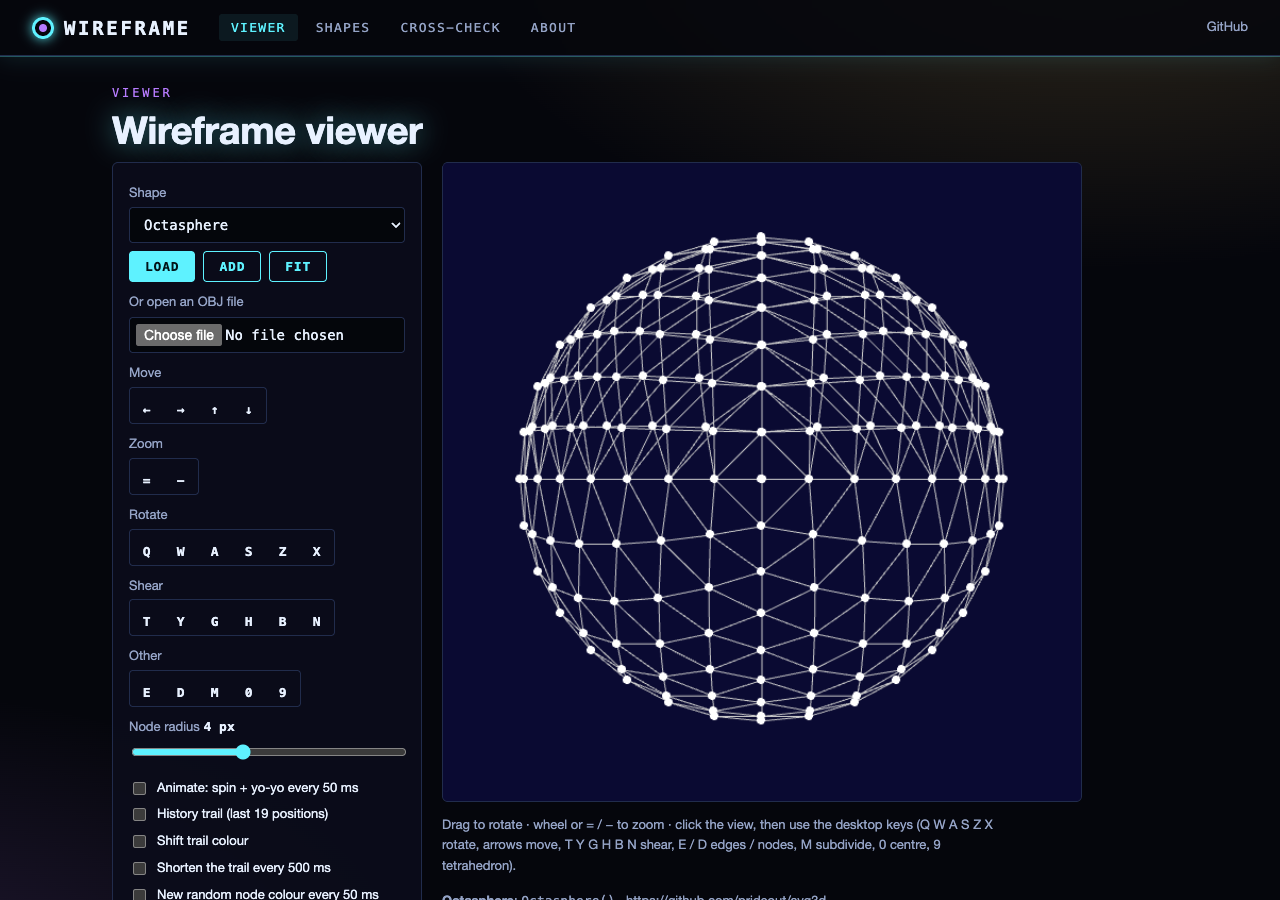
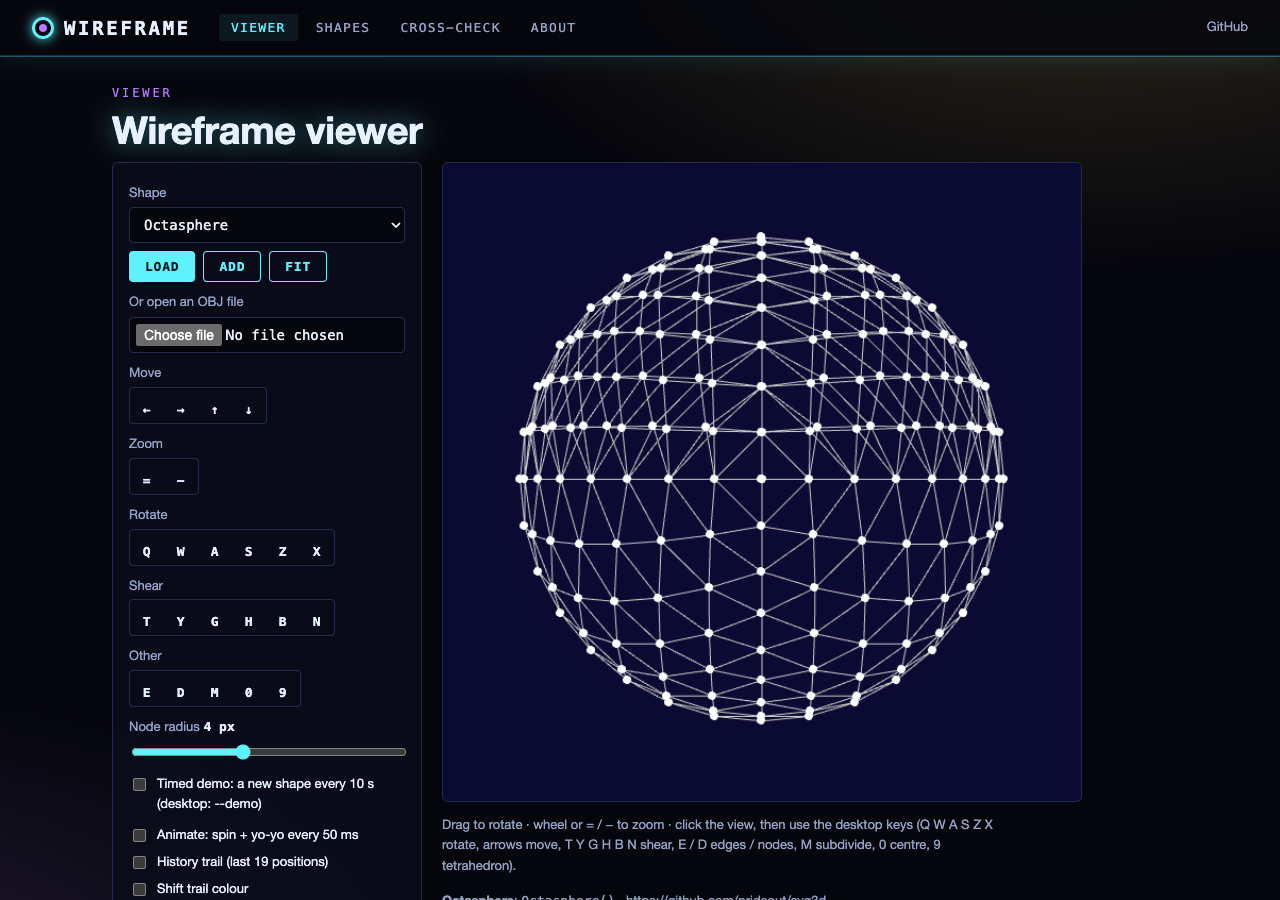
Update session log, interface map and viewer screenshot after follow-up fixes

Changed region(s): [[0.0938, 0.8711, 0.3125, 1.0]]

diff --git a/SESSION_LOG.md b/SESSION_LOG.md
@@ -35,3 +35,20 @@ Needs George's decision (not changed):
   overlapping for pentagons and larger. Left as is (the web port does the same).
 - Credit: much of the structure (Wireframe / ProjectionViewer / key_to_function / Spheroid / FractalLandscape) appears
   to follow Peter Collingridge's "3D graphics with Pygame" tutorial; the site does not claim this. Add a credit?
+
+## 2026-11-11 (later): follow-up fixes after merge (branch `web-interface`, fast-forwarded to main)
+George: "fix any other problems you come across". Each fix has its own commit and a failing-first test in tests/test_desktop.py:
+- timedAction: now `WireframeScene.timedAction(now)`, off by default; `python pygame_MatrixDisplay.py --demo [SECONDS]`
+  starts a timed demo (each model fitted with the new `fitAll`, shown for SECONDS, then the next; removal by scene
+  key, nothing printed). Ported to the web engine (node-tested) with a "Timed demo" check box; Fit now uses `fitAll`.
+- `pygame_loadOBJ_test.py` did not compile (empty `__main__` block) -> `pass`; test that every script compiles.
+- `pygame_wireframe_examples.py` / `pygame_wireframe_test.py` are copies of examples.py / testAnimation.py from
+  petercollingridge/Pygame3D and need its modules (no licence file there, so not copied) -> moved to `_archive/` with
+  a README; test that no desktop script imports a missing module.
+- Credit to Peter Collingridge's "3D Graphics with Pygame" tutorial and Pygame3D added to README and About
+  (derivation checked against https://github.com/petercollingridge/Pygame3D: same shapes and matrix code).
+- `loadOBJ`: polygons now split into a fan (0, i, i+1); consecutive triples overlapped for 5+ corners (Python + JS).
+- `pygame_Matrix-wireframe.py`: translate / scale / findCentre / rotateX/Y/Z fixed for numpy rows.
+Checks: pytest tests/ 54 passed (test_web 37); node 56 checks; screenshots static (8 routes) and against
+run_web.py on 8118 (6 routes) all ok, phone overflow 0px.
+Still for George: Pygame3D has no licence file, yet several shapes and the matrix code derive from it (now credited).

diff --git a/INTERFACE.md b/INTERFACE.md
@@ -4,8 +4,8 @@
 | File | Contents |
 |---|---|
 | `pygame_MatrixWireframe.py` | `Wireframe`: nodes as (x, y, z, 1) rows, edges, faces, history; `transform` (row vectors), `scale`/`shear`/`rotate` about a centre, `moveTo`, `changeShape`, `update` (records history), `subdivide` (onto the shape's own sphere) |
-| `wireframe_scene.py` | **Pygame-free** scene logic: matrix builders (`translationMatrix`, `scaleMatrix`, `rotateX/Y/ZMatrix`, `shearMatrix`, `perspectiveMatrix`), `KEY_BINDINGS`, `WireframeScene` (translateAll, scaleAll, rotateAll, shearAll, centerAll, moveAll, subdivideAll, spin, yoyo, animate_update, apply_key), `project` |
-| `pygame_MatrixDisplay.py` | `ProjectionViewer(WireframeScene)`: Pygame window, event loop (keys, 50 ms / 500 ms timers), `display()`, `timedAction`; `__main__` demo model table |
+| `wireframe_scene.py` | **Pygame-free** scene logic: matrix builders (`translationMatrix`, `scaleMatrix`, `rotateX/Y/ZMatrix`, `shearMatrix`, `perspectiveMatrix`), `KEY_BINDINGS`, `WireframeScene` (translateAll, scaleAll, rotateAll, shearAll, centerAll, moveAll, fitAll, subdivideAll, spin, yoyo, animate_update, startTimedDemo, timedAction, apply_key), `project` |
+| `pygame_MatrixDisplay.py` | `ProjectionViewer(WireframeScene)`: Pygame window, event loop (keys, 50 ms / 500 ms timers), `display()`; `__main__` demo model table, `--demo SECONDS` timed demo |
 | `pygame_basicShapes.py` | shape constructors: `Cuboid`, `Tetrahedron`, `Octahedron`, `Spheroid`, `HorizontalGrid`, `FractalLandscape`, `letter`, `Icosahedron`, `Octasphere`/`get_octasphere` (pyrr), `parametric_surface`, `loadOBJ`, `marchingCubes` (skimage), `convexHull` (scipy), `MRI`, `loadNIKONFile`, `loadImage*` (local files) |
 | `pygame_parametricShapes.py` | 14 surface functions f(u, v) → (x, y, z) |
 | `shape_catalogue.py` | **Pygame-free** catalogue of the demo shapes as (slug, name, group, constructor, kwargs); `entries()`, `build(slug)` |
